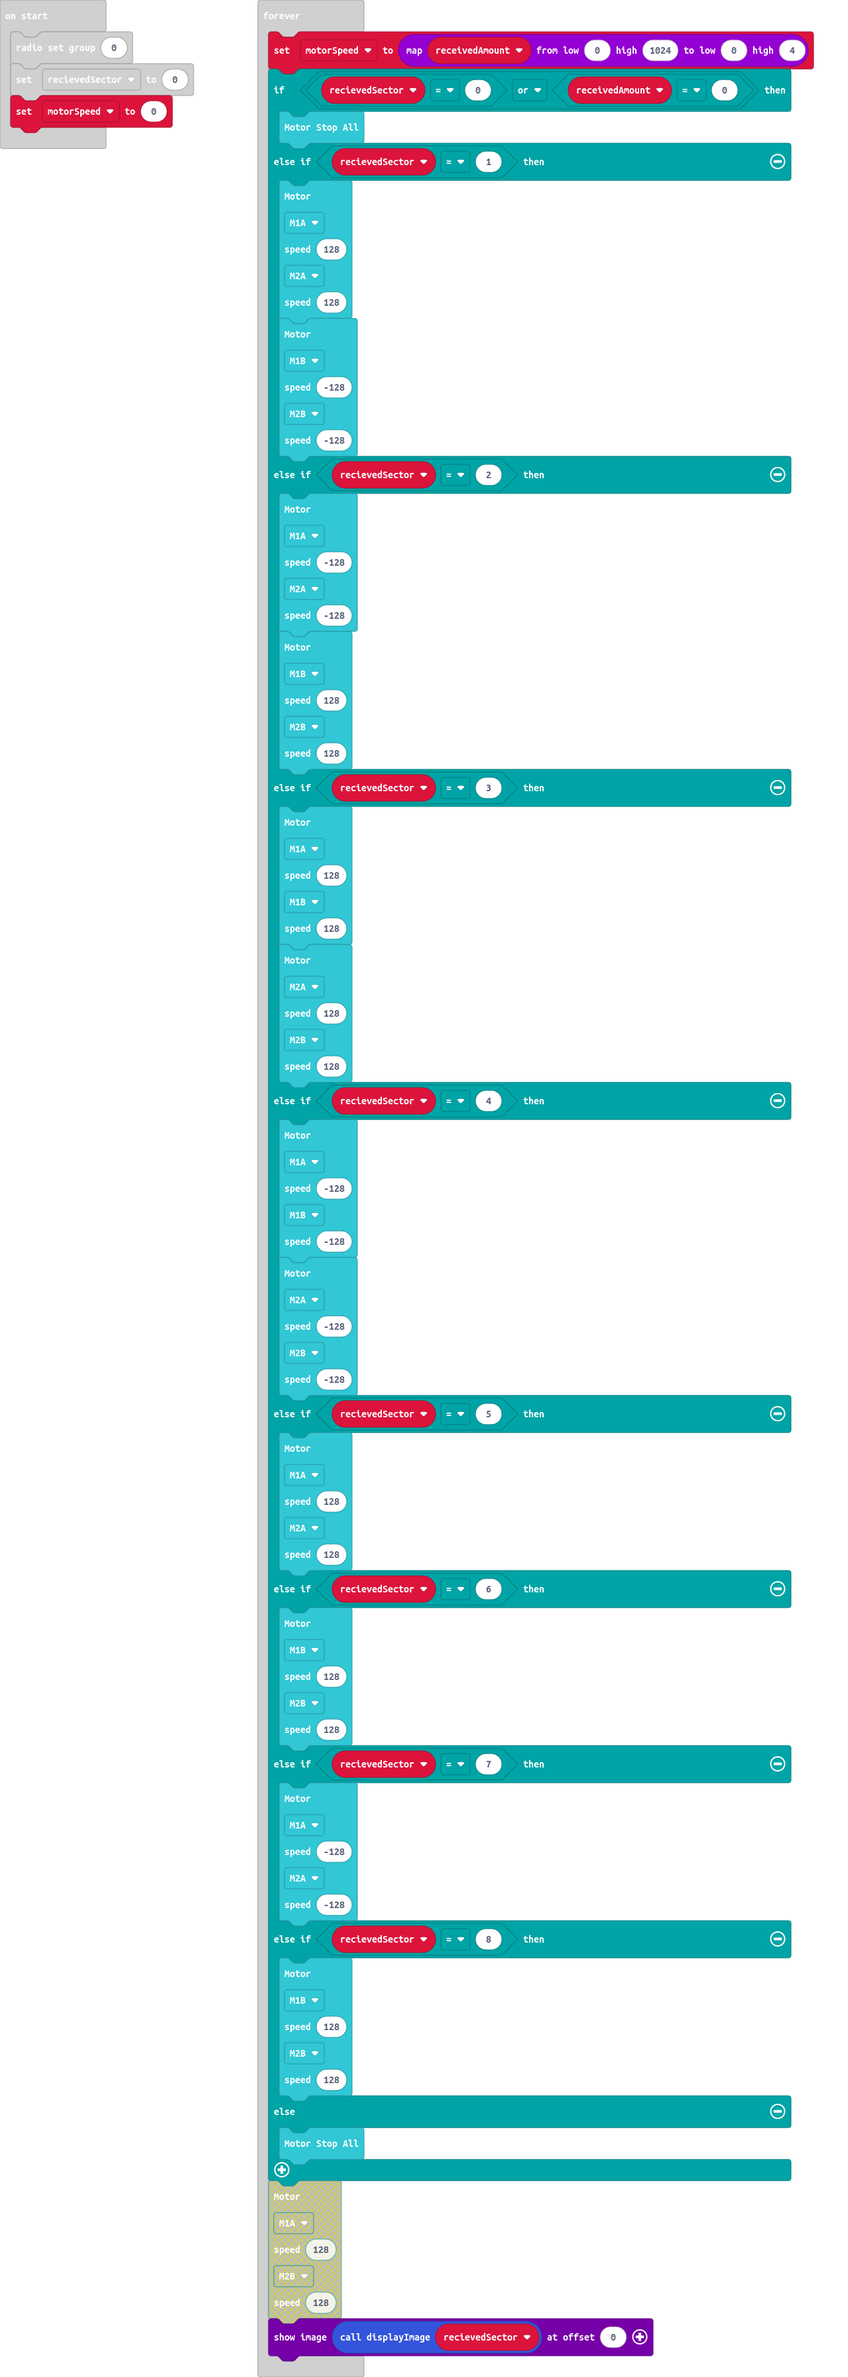
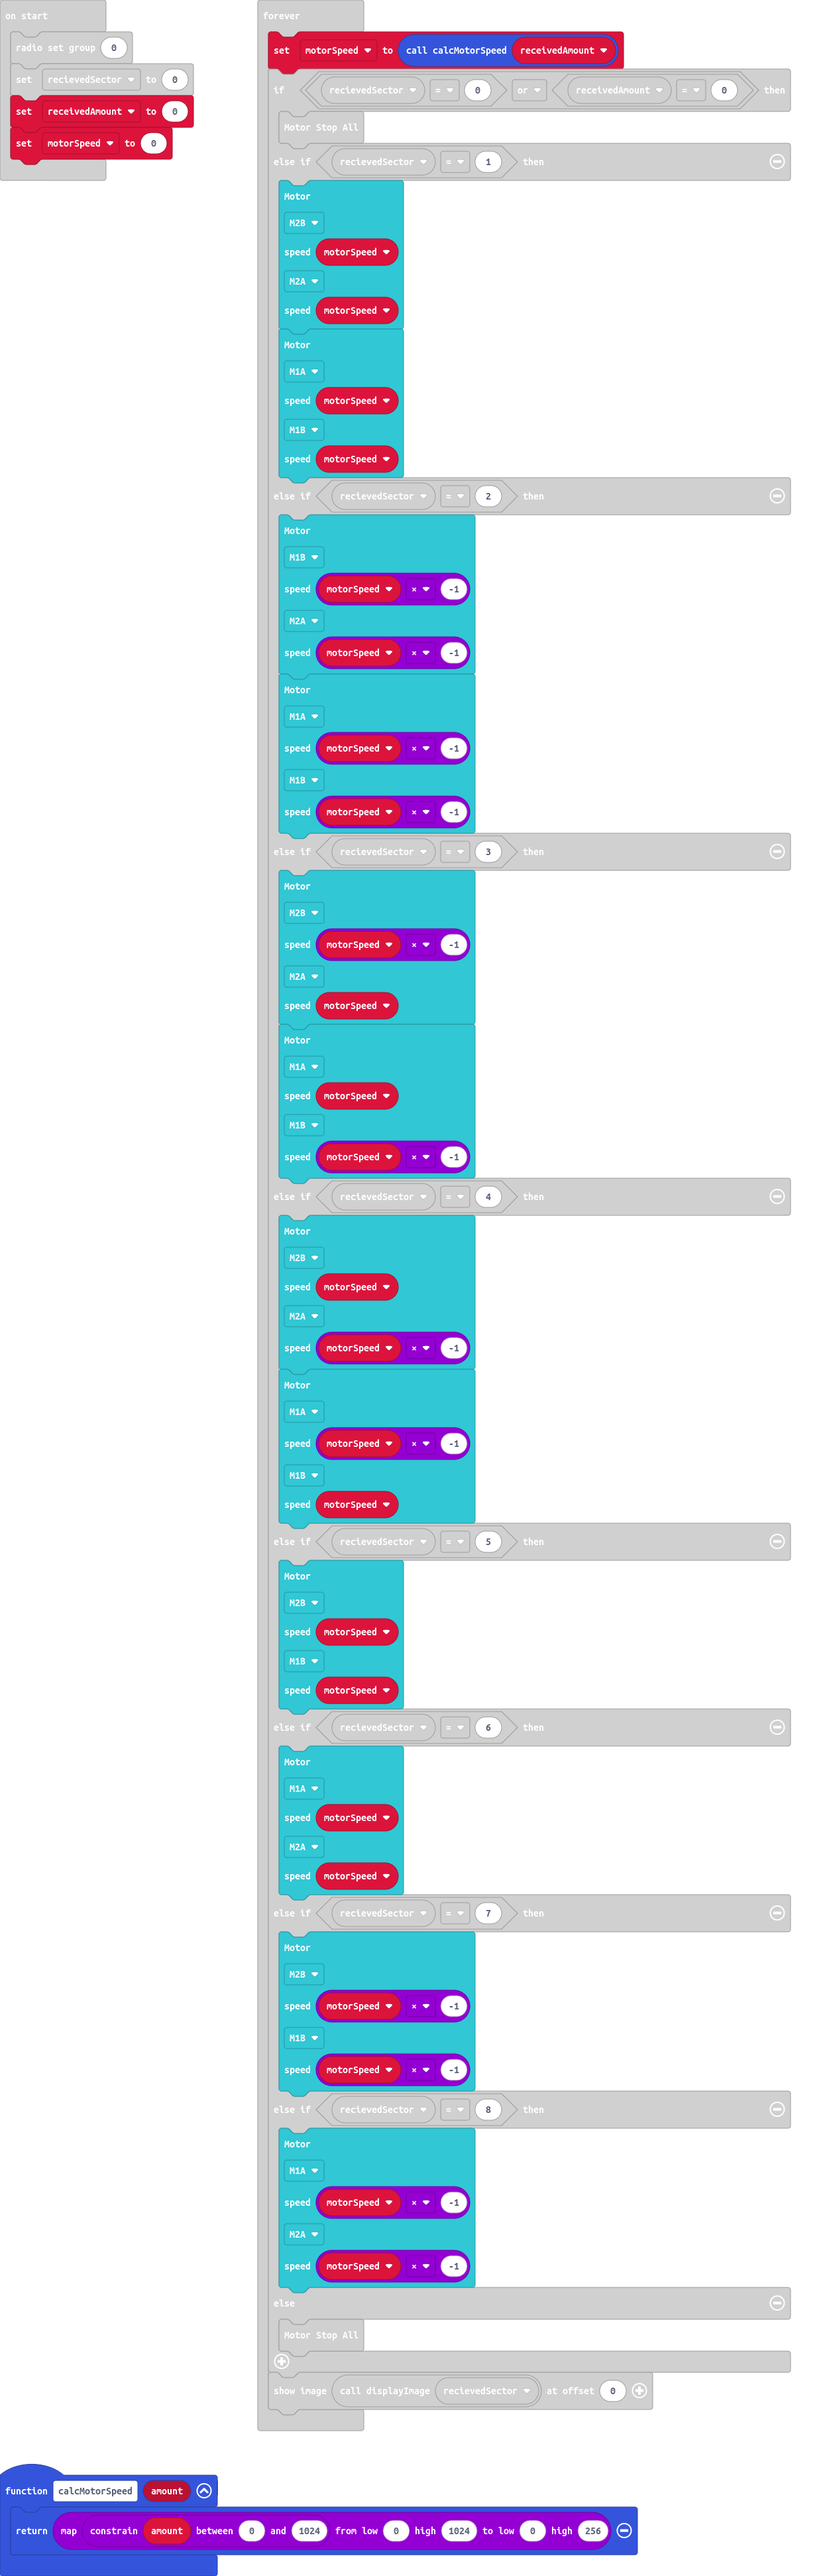
calcMotorSpeed - map, constrain receivedAmount

diff --git a/main.ts b/main.ts
@@ -2,6 +2,9 @@ radio.onReceivedNumberDeprecated(function (receivedNumber) {
     receivedAmount = Math.idiv(receivedNumber, 1000)
     recievedSector = receivedNumber - receivedAmount * 1000
 })
+function calcMotorSpeed (amount: number) {
+    return Math.map(Math.constrain(amount, 0, 1024), 0, 1024, 0, 256)
+}
 function displayImage (sector: number) {
     if (sector == 0) {
         return images.createImage(`
@@ -89,90 +92,91 @@ let receivedAmount = 0
 let recievedSector = 0
 radio.setGroup(0)
 recievedSector = 0
+receivedAmount = 0
 let motorSpeed = 0
 basic.forever(function () {
-    motorSpeed = Math.map(receivedAmount, 0, 1024, 0, 4)
+    motorSpeed = calcMotorSpeed(receivedAmount)
     if (recievedSector == 0 || receivedAmount == 0) {
         robotbit.MotorStopAll()
     } else if (recievedSector == 1) {
         robotbit.MotorRunDual(
-        robotbit.Motors.M1A,
-        128,
+        robotbit.Motors.M2B,
+        motorSpeed,
         robotbit.Motors.M2A,
-        128
+        motorSpeed
         )
         robotbit.MotorRunDual(
+        robotbit.Motors.M1A,
+        motorSpeed,
         robotbit.Motors.M1B,
-        -128,
-        robotbit.Motors.M2B,
-        -128
+        motorSpeed
         )
     } else if (recievedSector == 2) {
         robotbit.MotorRunDual(
-        robotbit.Motors.M1A,
-        -128,
+        robotbit.Motors.M1B,
+        motorSpeed * -1,
         robotbit.Motors.M2A,
-        -128
+        motorSpeed * -1
         )
         robotbit.MotorRunDual(
+        robotbit.Motors.M1A,
+        motorSpeed * -1,
         robotbit.Motors.M1B,
-        128,
-        robotbit.Motors.M2B,
-        128
+        motorSpeed * -1
         )
     } else if (recievedSector == 3) {
         robotbit.MotorRunDual(
-        robotbit.Motors.M1A,
-        128,
-        robotbit.Motors.M1B,
-        128
+        robotbit.Motors.M2B,
+        motorSpeed * -1,
+        robotbit.Motors.M2A,
+        motorSpeed
         )
         robotbit.MotorRunDual(
-        robotbit.Motors.M2A,
-        128,
-        robotbit.Motors.M2B,
-        128
+        robotbit.Motors.M1A,
+        motorSpeed,
+        robotbit.Motors.M1B,
+        motorSpeed * -1
         )
     } else if (recievedSector == 4) {
         robotbit.MotorRunDual(
-        robotbit.Motors.M1A,
-        -128,
-        robotbit.Motors.M1B,
-        -128
+        robotbit.Motors.M2B,
+        motorSpeed,
+        robotbit.Motors.M2A,
+        motorSpeed * -1
         )
         robotbit.MotorRunDual(
-        robotbit.Motors.M2A,
-        -128,
-        robotbit.Motors.M2B,
-        -128
+        robotbit.Motors.M1A,
+        motorSpeed * -1,
+        robotbit.Motors.M1B,
+        motorSpeed
         )
     } else if (recievedSector == 5) {
         robotbit.MotorRunDual(
-        robotbit.Motors.M1A,
-        128,
-        robotbit.Motors.M2A,
-        128
+        robotbit.Motors.M2B,
+        motorSpeed,
+        robotbit.Motors.M1B,
+        motorSpeed
         )
     } else if (recievedSector == 6) {
         robotbit.MotorRunDual(
-        robotbit.Motors.M1B,
-        128,
-        robotbit.Motors.M2B,
-        128
+        robotbit.Motors.M1A,
+        motorSpeed,
+        robotbit.Motors.M2A,
+        motorSpeed
         )
     } else if (recievedSector == 7) {
         robotbit.MotorRunDual(
-        robotbit.Motors.M1A,
-        -128,
-        robotbit.Motors.M2A,
-        -128
+        robotbit.Motors.M2B,
+        motorSpeed * -1,
+        robotbit.Motors.M1B,
+        motorSpeed * -1
         )
     } else if (recievedSector == 8) {
         robotbit.MotorRunDual(
-        robotbit.Motors.M1B,
-        128,
-        robotbit.Motors.M2B,
-        128
+        robotbit.Motors.M1A,
+        motorSpeed * -1,
+        robotbit.Motors.M2A,
+        motorSpeed * -1
         )
     } else {
         robotbit.MotorStopAll()
